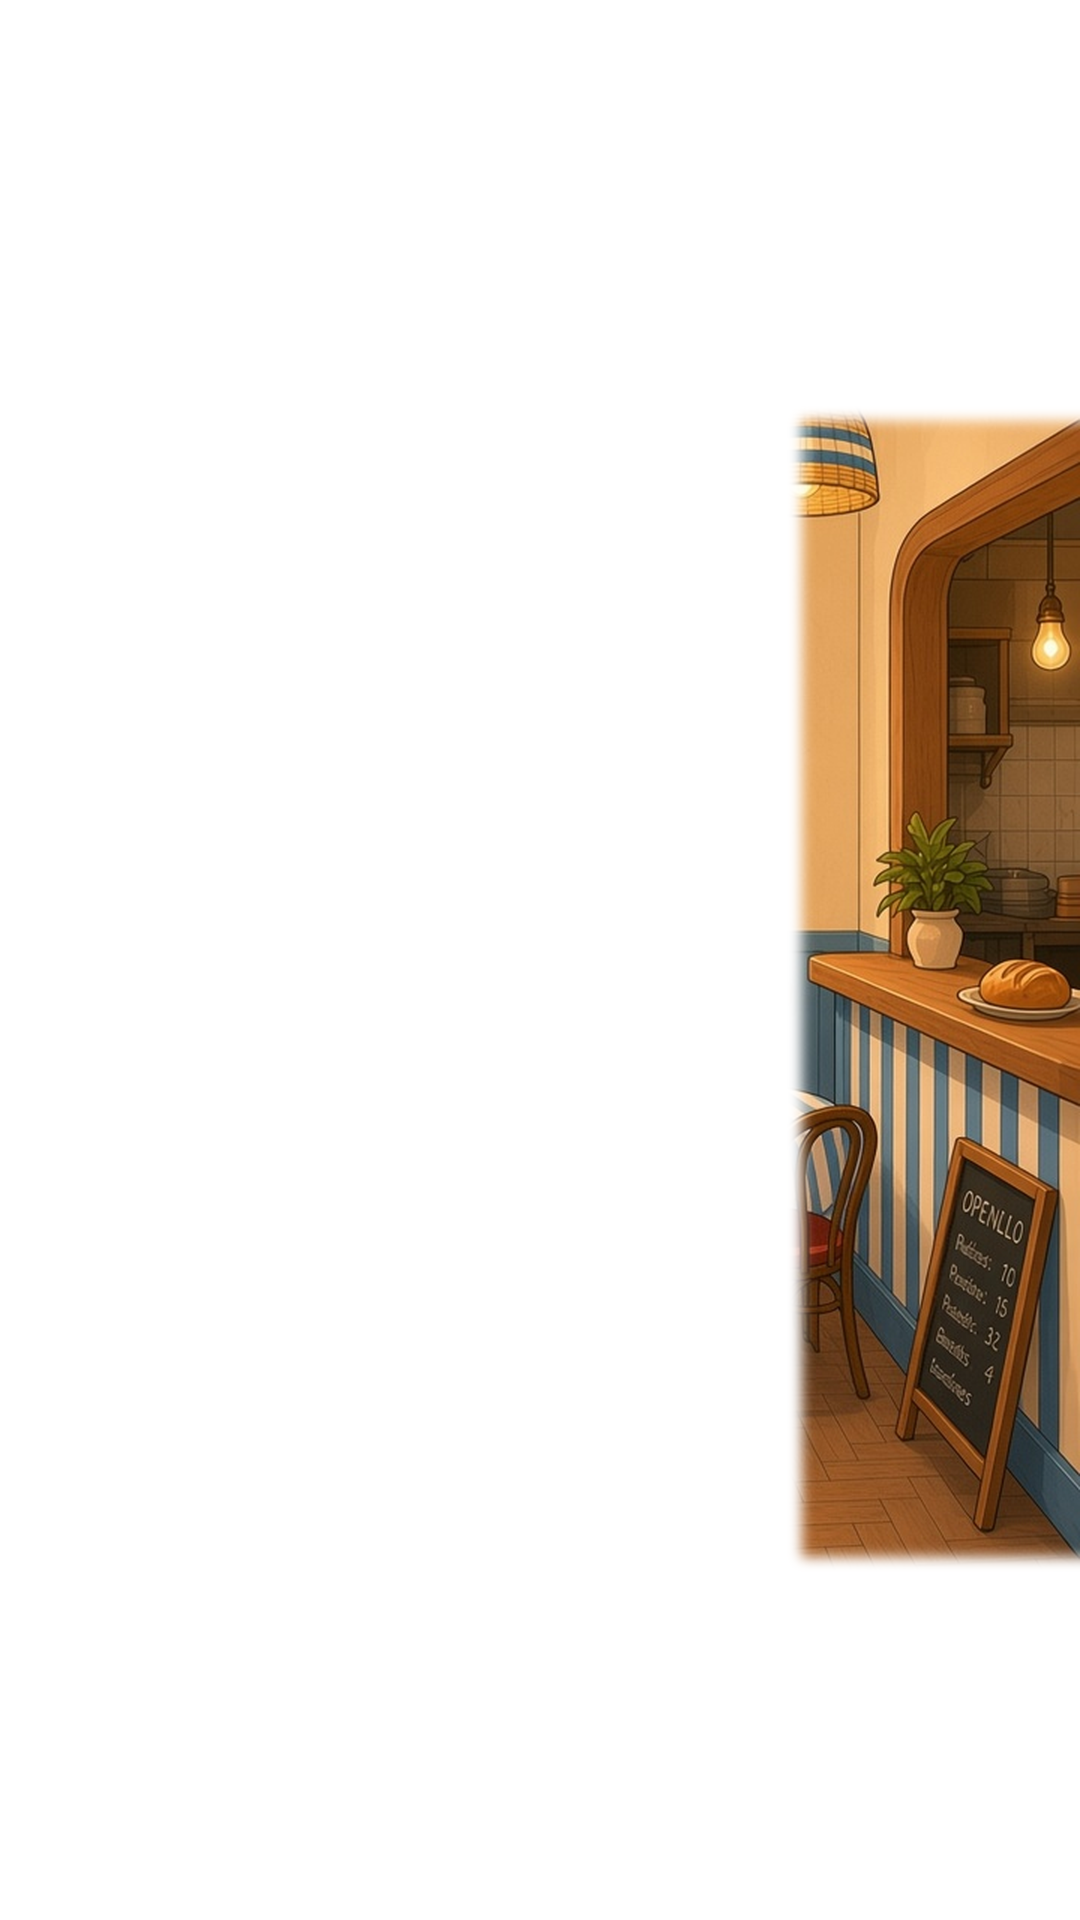
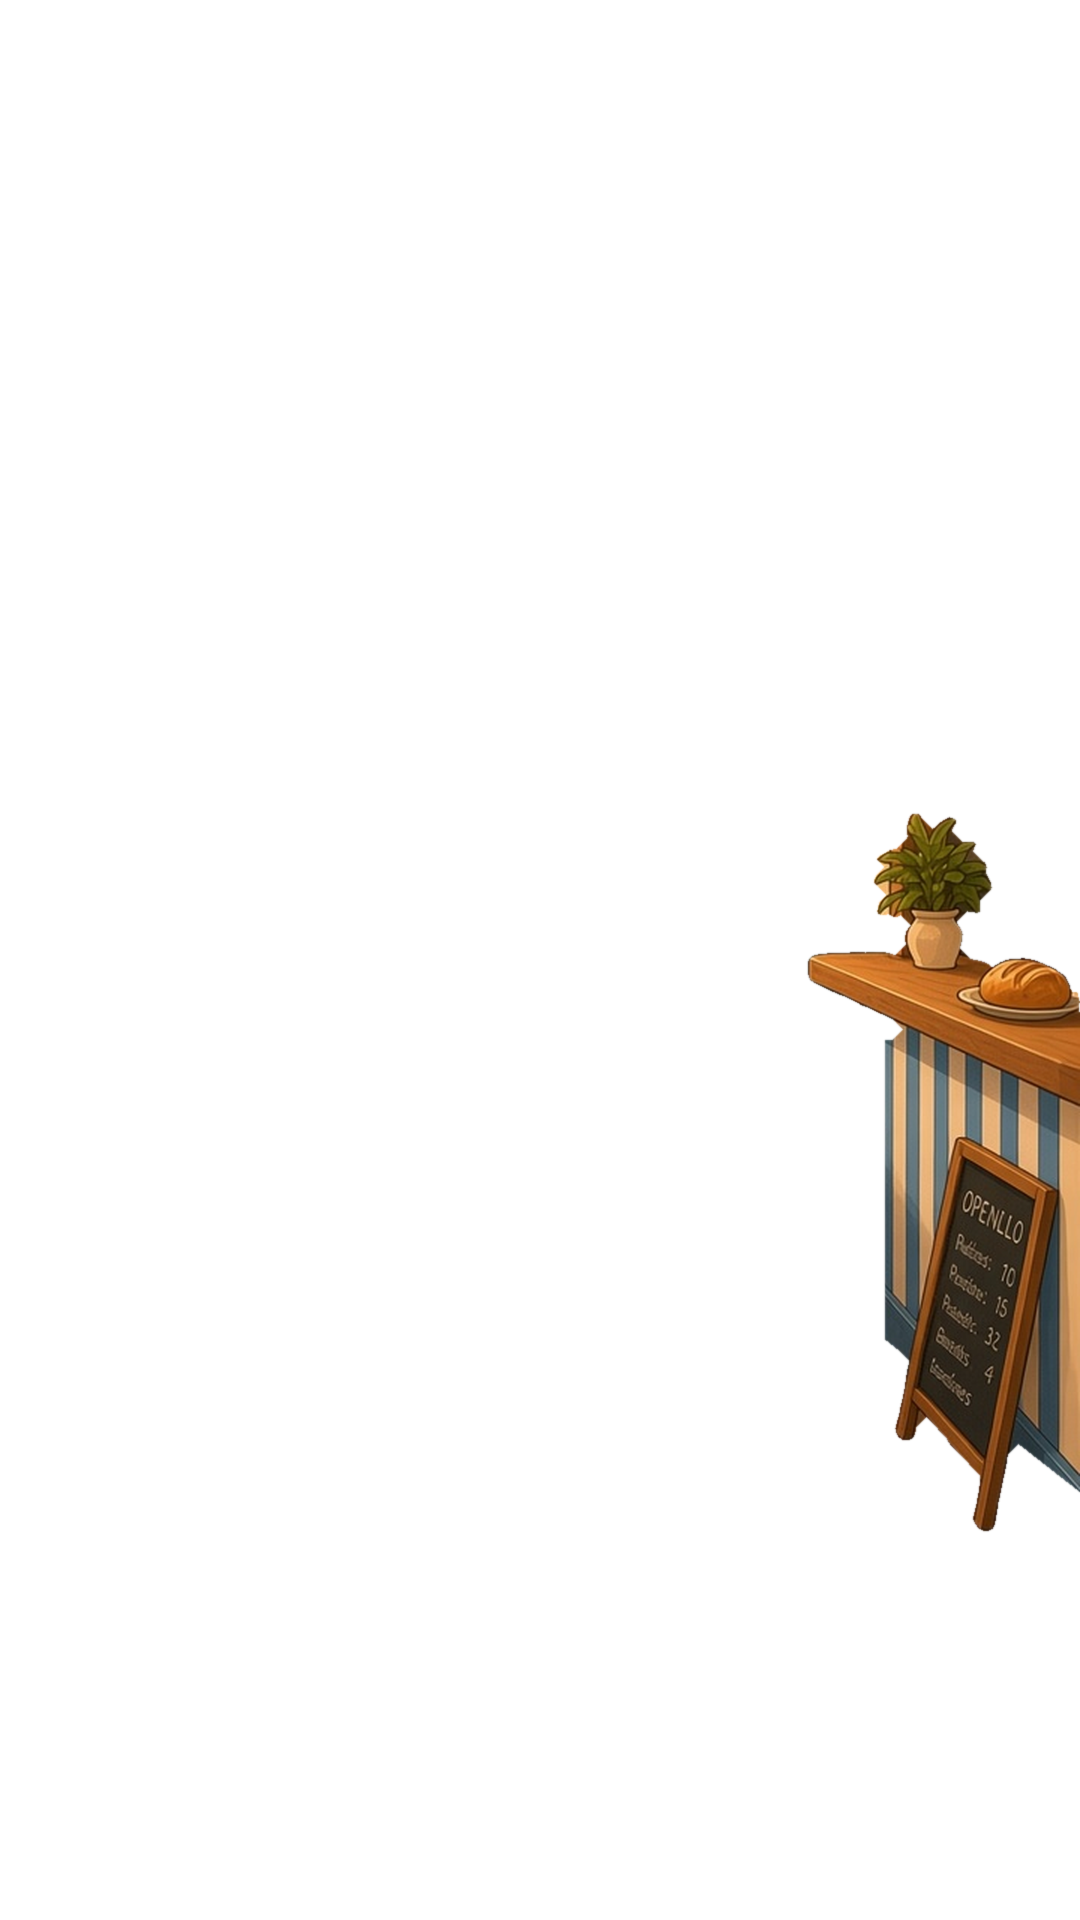
v0.5.2: deco lot 2, calques de base détourés, fonds vides

Changed region(s): [[0.7333, 0.1875, 1.0, 0.8125]]

diff --git a/index.html b/index.html
@@ -3,7 +3,7 @@
 <head>
 <meta charset="UTF-8">
 <meta name="viewport" content="width=device-width, initial-scale=1, maximum-scale=1, user-scalable=no">
-<title>Chef Match – v0.5.1</title>
+<title>Chef Match – v0.5.2</title>
 <style>
   html,body{margin:0;height:100%;background:#3b2418 url("assets/bg_terrace.jpg") center/cover no-repeat;overflow:hidden;touch-action:none;
     font-family:"Trebuchet MS",system-ui,sans-serif;user-select:none;-webkit-user-select:none}
@@ -148,7 +148,7 @@
   <button id="btnLogFin">📋 Copier le log</button>
 </div></div>
 
-<div id="version">v0.5.1</div>
+<div id="version">v0.5.2</div>
 <button id="btnNiveaux">☰ Niveaux</button>
 <button id="btnRenover">🔨 Rénover <span id="badgeRenover"></span></button>
 <div id="ecranRenovation" class="ecran">
@@ -190,7 +190,7 @@
 /* =====================================================================
  * 1. CONFIGURATION & NIVEAU (données pures, futur fichier JSON)
  * ===================================================================== */
-const VERSION = "v0.5.1";
+const VERSION = "v0.5.2";
 /** v0.5 : options de jeu. glissementPlat : un plat s'échange comme une pièce avec une voisine si la pièce déplacée
  *  matche (le plat ne matche jamais) ; arrivé sur la dernière case jouable il est livré. false = plats immobiles. */
 const CONFIG_JEU = { glissementPlat: true,
@@ -4313,6 +4313,23 @@ const RENOVATION_SALLE = {
      "who": "margot",
      "text": "Oh là là, je n'ai rien vu. Enfin, presque rien."
     }
+   ],
+   "styles": [
+    {
+     "id": "base",
+     "cost": 0,
+     "file": "assets/task_room_chairs.png"
+    },
+    {
+     "id": "riviera",
+     "cost": 300,
+     "file": "assets/deco_dining_room_add_chairs_riviera.png"
+    },
+    {
+     "id": "bistrot",
+     "cost": 300,
+     "file": "assets/deco_dining_room_add_chairs_bistrot.png"
+    }
    ]
   },
   {
@@ -4519,7 +4536,24 @@ const RENOVATION_TERRASSE = {
      "text": "Une boîte ? Pour moi ?"
     }
    ],
-   "image": "assets/task_chairs.png"
+   "image": "assets/task_chairs.png",
+   "styles": [
+    {
+     "id": "base",
+     "cost": 0,
+     "file": "assets/task_chairs.png"
+    },
+    {
+     "id": "riviera",
+     "cost": 300,
+     "file": "assets/deco_terrace_add_chairs_riviera.png"
+    },
+    {
+     "id": "bistrot",
+     "cost": 300,
+     "file": "assets/deco_terrace_add_chairs_bistrot.png"
+    }
+   ]
   },
   {
    "id": "hang_lights",
@@ -4535,7 +4569,24 @@ const RENOVATION_TERRASSE = {
      "text": "Ça ressemble enfin à La Petite Marée d'avant."
     }
    ],
-   "image": "assets/task_garlands.png"
+   "image": "assets/task_garlands.png",
+   "styles": [
+    {
+     "id": "base",
+     "cost": 0,
+     "file": "assets/task_garlands.png"
+    },
+    {
+     "id": "riviera",
+     "cost": 300,
+     "file": "assets/deco_terrace_hang_lights_riviera.png"
+    },
+    {
+     "id": "bistrot",
+     "cost": 300,
+     "file": "assets/deco_terrace_hang_lights_bistrot.png"
+    }
+   ]
   },
   {
    "id": "install_sign",
@@ -4806,6 +4857,23 @@ const RENOVATION_CUISINE = {
     {
      "who": "emma",
      "text": "Il veut la guerre ? Il aura la cuisine de Rose."
+    }
+   ],
+   "styles": [
+    {
+     "id": "base",
+     "cost": 0,
+     "file": "assets/task_kit_stove.png"
+    },
+    {
+     "id": "riviera",
+     "cost": 300,
+     "file": "assets/deco_kitchen_restore_stove_riviera.png"
+    },
+    {
+     "id": "bistrot",
+     "cost": 300,
+     "file": "assets/deco_kitchen_restore_stove_bistrot.png"
     }
    ]
   },
